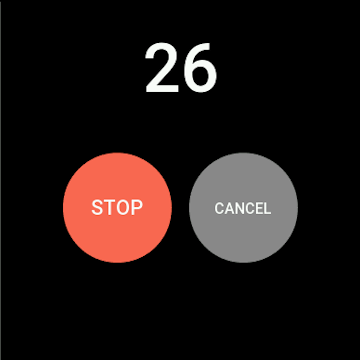
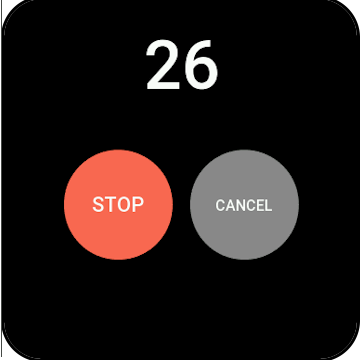
version 1.0.1 pre- user test

diff --git a/zepp_app/setting/index.js b/zepp_app/setting/index.js
@@ -1,5 +1,11 @@
 
-import { UPLOADURL, APIKEY, TODOIST_KEY } from '../secrets.js';
+import { UPLOADURL, APIKEY, TODOIST_CLIENT_ID, TODOIST_CLIENT_SECRET, DEFAULT_LANG } from '../secrets.js';
+
+const _UPLOADURL        = UPLOADURL        || '';
+const _APIKEY           = APIKEY           || '';
+const _CLIENT_ID        = TODOIST_CLIENT_ID     || '';
+const _CLIENT_SECRET    = TODOIST_CLIENT_SECRET || '';
+const _DEFAULT_LANG     = DEFAULT_LANG     || 'en';
 
 // Keep in sync with zepp_app/config.js
 const SIMULATOR_MODE = false;
@@ -13,7 +19,7 @@ const FAKE_FILES = [
 AppSettingsPage({
   build(props) {
     if (!props.settingsStorage.getItem("dudu_upload_url")) {
-      props.settingsStorage.setItem("dudu_upload_url", UPLOADURL);
+      props.settingsStorage.setItem("dudu_upload_url", _UPLOADURL);
     }
     const uploadUrl = props.settingsStorage.getItem("dudu_upload_url");
     let files = [];
@@ -34,6 +40,7 @@ AppSettingsPage({
           marginBottom: "16px",
           borderBottom: "1px solid #333333",
           paddingBottom: "16px",
+          backgroundColor: "#1a4a8a",
         },
       },
       [
@@ -57,7 +64,7 @@ AppSettingsPage({
 
     // --- API Key section ---
     if (!props.settingsStorage.getItem("dudu_api_key")) {
-      props.settingsStorage.setItem("dudu_api_key", APIKEY);
+      props.settingsStorage.setItem("dudu_api_key", _APIKEY);
     }
     const apiKey = props.settingsStorage.getItem("dudu_api_key");
 
@@ -67,6 +74,7 @@ AppSettingsPage({
           marginBottom: "16px",
           borderBottom: "1px solid #333333",
           paddingBottom: "16px",
+          backgroundColor: "#1a4a8a",
         },
       },
       [
@@ -88,34 +96,58 @@ AppSettingsPage({
       ]
     );
 
-    // --- Todoist API Key section ---
-    if (!props.settingsStorage.getItem("dudu_todoist_key")) {
-      props.settingsStorage.setItem("dudu_todoist_key", TODOIST_KEY);
-    }
-    const todoistKey = props.settingsStorage.getItem("dudu_todoist_key");
-
+    // --- Todoist OAuth section ---
     const todoistKeyConfig = Section(
       {
         style: {
           marginBottom: "16px",
           borderBottom: "1px solid #333333",
           paddingBottom: "16px",
+          backgroundColor: "#1a4a8a",
         },
       },
       [
+        View(
+          {
+            style: {
+              display: "flex",
+              flexDirection: "row",
+              alignItems: "center",
+              marginBottom: "8px",
+            },
+          },
+          [
+            Image({
[1 lines of base64/hex data omitted]
+              width: "24px",
+              height: "24px",
+              style: { marginRight: "8px" },
+            }),
+            Text(
+              {
+                bold: true,
+                style: { color: "#ffffff", fontSize: "13px" },
+              },
+              "Todoist Integration"
+            ),
+          ]
+        ),
         Text(
           {
-            bold: true,
             paragraph: true,
-            style: { color: "#ffffff", fontSize: "13px", marginBottom: "8px" },
+            style: { color: "#aaaaaa", fontSize: "12px", marginBottom: "8px" },
           },
-          "Todoist API Key"
+          "Authorise DuDu to create tasks from your recordings"
         ),
-        TextInput({
-          label: "",
-          value: todoistKey,
-          onChange: (val) => {
-            props.settingsStorage.setItem("dudu_todoist_key", val);
+        Auth({
+          label: "Connect Todoist",
+          authorizeUrl: "https://app.todoist.com/oauth/authorize",
+          requestTokenUrl: "https://api.todoist.com/oauth/access_token",
+          clientId: _CLIENT_ID,
+          clientSecret: _CLIENT_SECRET,
+          scope: "task:add",
+          onAccessToken({ access_token }) {
+            props.settingsStorage.setItem("dudu_todoist_key", access_token);
           },
         }),
       ]
@@ -123,7 +155,7 @@ AppSettingsPage({
 
     // --- Language section ---
     if (!props.settingsStorage.getItem("dudu_language")) {
-      props.settingsStorage.setItem("dudu_language", "en");
+      props.settingsStorage.setItem("dudu_language", _DEFAULT_LANG);
     }
     const currentLanguage = props.settingsStorage.getItem("dudu_language");
 
@@ -133,6 +165,7 @@ AppSettingsPage({
           marginBottom: "16px",
           borderBottom: "1px solid #333333",
           paddingBottom: "16px",
+          backgroundColor: "#1a4a8a",
         },
       },
       [
@@ -167,6 +200,7 @@ AppSettingsPage({
           marginBottom: "16px",
           borderBottom: "1px solid #333333",
           paddingBottom: "16px",
+          backgroundColor: "#1a4a8a",
         },
       },
       [
@@ -197,7 +231,7 @@ AppSettingsPage({
           style: {
             padding: "20px",
             textAlign: "center",
-            backgroundColor: "#0a1628",
+            backgroundColor: "#1a4a8a",
             minHeight: "100%",
           },
         },
@@ -302,7 +336,7 @@ AppSettingsPage({
       {
         style: {
           padding: "20px",
-          backgroundColor: "#0a1628",
+          backgroundColor: "#1a4a8a",
           minHeight: "100%",
         },
       },

diff --git a/zepp_app/secrets.template.js b/zepp_app/secrets.template.js
@@ -1,10 +1,8 @@
 // Copy this file to secrets.js and fill in your values.
 // secrets.js is gitignored and will NOT be committed.
 
-export const UPLOADURL   = "https://your-worker.workers.dev/upload";
-export const APIKEY      = "your-worker-api-key-here";
-export const TODOIST_KEY = "your-todoist-api-key-here";
-export const DEFAULT_LANG = "it";
-export const TODOIST_CLIENT_ID = "";
+export const UPLOADURL          = "https://your-worker.workers.dev/upload";
+export const APIKEY             = "your-worker-api-key-here";
+export const DEFAULT_LANG       = "en";
+export const TODOIST_CLIENT_ID  = "";
 export const TODOIST_CLIENT_SECRET = "";
-

diff --git a/zepp_app/page/gt/home/index.page.js b/zepp_app/page/gt/home/index.page.js
@@ -163,8 +163,8 @@ const rightBtnX = Math.floor(width / 2 + btnGap / 2);
 
 Page(BasePage({
   build() {
-    setPageBrightTime({ brightTime: 600000 });
-    pauseDropWristScreenOff({ duration: 600000 });
+    try { setPageBrightTime({ brightTime: 600000 }); } catch (e) {}
+    try { pauseDropWristScreenOff({ duration: 600000 }); } catch (e) {}
 
     pageRequest = this.request.bind(this);
     // Countdown text - top half of screen

diff --git a/zepp_app/page/gt/home/audiolist.page.js b/zepp_app/page/gt/home/audiolist.page.js
@@ -57,8 +57,8 @@ function playFile(filePath, playBtn) {
 
 Page(BasePage({
   build() {
-    setPageBrightTime({ brightTime: 600000 });
-    pauseDropWristScreenOff({ duration: 600000 });
+    try { setPageBrightTime({ brightTime: 600000 }); } catch (e) {}
+    try { pauseDropWristScreenOff({ duration: 600000 }); } catch (e) {}
 
     const files = listAudioFiles();
     const pageRequest = this.request.bind(this);

diff --git a/.claude/tasks/CURRENT.md b/.claude/tasks/CURRENT.md
@@ -1,37 +1,51 @@
-# Task: Replace Todoist API Key with OAuth Authentication
+# Task: Replace Todoist API Key with OAuth Authentication — COMPLETED
 
 ## Goal
-Replace the manual Todoist API key entry in the Zepp app settings with a proper OAuth flow using the Zepp `Auth` component. The Cloudflare worker and app-side code need no changes — only the settings UI changes.
+Replace the manual Todoist API key entry with a proper OAuth flow using the Zepp `Auth` component.
 
 ## Prerequisites
-- [ ] Register a Todoist app at https://app.todoist.com/app/settings/integrations/app-management
-- [ ] Obtain `clientId` and `clientSecret`
-- [ ] Add them to `zepp_app/secrets.js` (and `zepp_app/secrets.template.js`) as `TODOIST_CLIENT_ID` and `TODOIST_CLIENT_SECRET`
+- [x] Register a Todoist app at https://app.todoist.com/app/settings/integrations/app-management
+- [x] Obtain `clientId` and `clientSecret`
+- [x] Add to `zepp_app/secrets.js` and `zepp_app/secrets.template.js` as `TODOIST_CLIENT_ID` / `TODOIST_CLIENT_SECRET`
 
 ## Implementation Steps
+- [x] **`zepp_app/secrets.template.js`** — removed `TODOIST_KEY`, added `TODOIST_CLIENT_ID` / `TODOIST_CLIENT_SECRET`
+- [x] **`zepp_app/secrets.js`** — removed `TODOIST_KEY`, added real `TODOIST_CLIENT_ID` / `TODOIST_CLIENT_SECRET`
+- [x] **`zepp_app/setting/index.js`** — replaced `TextInput` with `Auth` component; OAuth token saved to `dudu_todoist_key`
+- [x] **Redirect URI** — registered `https://zepp-os.zepp.com/app-settings/redirect.html` in Todoist App Management Console
+- [x] **Todoist icon** — `Image` component with base64-encoded `todoist.png` added next to section label
 
-- [ ] **`zepp_app/secrets.template.js`** — Add `TODOIST_CLIENT_ID` and `TODOIST_CLIENT_SECRET` placeholders; remove `TODOIST_KEY`
-- [ ] **`zepp_app/secrets.js`** — Add actual `TODOIST_CLIENT_ID` and `TODOIST_CLIENT_SECRET` values; remove `TODOIST_KEY`
-- [ ] **`zepp_app/setting/index.js`** — Remove the `TODOIST_KEY` import and the `TextInput` block for the API key (lines ~91-122); replace with an `Auth` component that writes the returned `access_token` to `settingsStorage` under the existing key `dudu_todoist_key`
+## Notes
+- `cloudfare_worker/worker.js` and `app-side/index.js` required no changes — OAuth tokens are Bearer tokens identical to API keys
+- Zepp uses `https://zepp-os.zepp.com/app-settings/redirect.html` as the redirect URI (visible in the authorize URL query string)
+- Use `Image` not `Img` — correct Zepp settings component name
 
-## Auth Component Config
-```js
-Auth({
-  title: 'Todoist',
-  label: 'Connect Todoist',
-  description: 'Authorize to create tasks from recordings',
-  authorizeUrl: 'https://app.todoist.com/oauth/authorize',
-  requestTokenUrl: 'https://api.todoist.com/oauth/access_token',
-  clientId: TODOIST_CLIENT_ID,
-  clientSecret: TODOIST_CLIENT_SECRET,
-  scope: 'task:add',
-  onAccessToken({ access_token }) {
-    settingsStorage.setItem('dudu_todoist_key', access_token);
-  }
-})
-```
+---
 
-## No Changes Needed
-- `zepp_app/app-side/index.js` — already reads `dudu_todoist_key` and sends it as `todoistApiKey`
-- `cloudfare_worker/worker.js` — already uses it as a Bearer token
-- `scripts/test_debug_ogg.py` — manual key still works for testing
+# Task: App Store Rejection Fixes (v1.0.1) — COMPLETED
+
+### 1. Black screen on square device — FIXED
+- [x] Wrapped `setPageBrightTime` and `pauseDropWristScreenOff` in try/catch in `index.page.js` and `audiolist.page.js`
+
+### 2. Icon not displaying — FIXED
+- [x] gt.r and gt.s icons were 248×248; centre-cropped to 240×240 (bip6 was already correct)
+
+### 3. Settings white screen — FIXED
+- [x] Added `|| ''` fallback guards on all secret imports in `setting/index.js`
+- [x] Added `backgroundColor: "#1a4a8a"` to all `Section` components (were rendering white over the dark background)
+- [x] Corrected `DEFAULT_LANG` usage (was hardcoded `"en"`)
+
+### 4. Preview image corners — PENDING (manual)
+- [x] Re-export store preview images at 360×360px with rounded transparent corners and re-upload to store listing
+
+---
+
+# Task: review debug and utils
+
+- [ ] Update README.md withthe instruction on how to submit a file to the worker and manage TODOIST api key  in the command line
+- [ ] Update CLAUDE.md with the result of the analysys of what files are being included in the zab archive inside the .bin file and which are kept outside
+
+# Task: v1.0.1 Submission
+
+- [ ] Perform user testing on physical device (GTR / GTS / Bip6) - manual
+- [ ] Submit v1.0.1 to the Zepp app store

diff --git a/README.md b/README.md
@@ -28,7 +28,7 @@ zepp_app/
   secrets.js                  Local secrets (gitignored) — copy from secrets.template.js
   secrets.template.js         Template for secrets.js
   setting/index.js            Companion app settings page (URL, API key, language,
-                              Todoist key, recording duration)
+                              Todoist OAuth connect, recording duration)
   page/gt/home/
     index.page.js             Main recording page
     audiolist.page.js         Recordings list (play, sync, delete)
@@ -84,6 +84,23 @@ cp zepp_app/secrets.template.js zepp_app/secrets.js
 
 `secrets.js` is gitignored and will never be committed.
 
+The required fields are:
+
+| Field | Description |
+|---|---|
+| `UPLOADURL` | Your Cloudflare Worker URL (set in step 4) |
+| `APIKEY` | The API key you set on the worker (or leave blank) |
+| `DEFAULT_LANG` | Default transcription language, e.g. `"en"` or `"it"` |
+| `TODOIST_CLIENT_ID` | OAuth client ID from your Todoist app registration |
+| `TODOIST_CLIENT_SECRET` | OAuth client secret from your Todoist app registration |
+
+**Todoist OAuth setup:**
+
+1. Go to [Todoist App Management](https://app.todoist.com/app/settings/integrations/app-management) and create a new app.
+2. Set the redirect URI to exactly: `https://zepp-os.zepp.com/app-settings/redirect.html`
+3. Copy the **Client ID** and **Client Secret** into `secrets.js`.
+4. After building and installing the app, tap **Connect Todoist** in the watch app settings — it will open a browser OAuth flow and store the token automatically.
+
 ### 3. Install watch app dependencies
 
 ```bash
@@ -126,7 +143,7 @@ Open the **Zepp phone app → My Devices → your watch → DuDu → Settings**:
 |---|---|
 | Upload URL | `https://dudu-transcription.<your-subdomain>.workers.dev/upload` |
 | API Key | the key you set in step 4 (or leave blank to skip auth) |
-| Todoist Key | *(optional)* your Todoist API token — creates a task from each transcription |
+| Todoist | *(optional)* tap **Connect Todoist** — completes an OAuth flow and stores the token; once connected, a Todoist task is created from each transcription |
 | Language | transcription language hint sent to Whisper (default: English) |
 | Duration | recording length in seconds, 5–60 (default 30) |
 
@@ -154,7 +171,7 @@ Transcribes audio and optionally creates a Todoist task.
 | `fileName` | string | no | Original file name, echoed in response |
 | `apiKey` | string | no | API key (alternative to `Authorization` header) |
 | `language` | string | no | BCP-47 language code for Whisper, e.g. `"en"`, `"it"`. Defaults to `"en"` |
-| `todoistApiKey` | string | no | Todoist API token — if provided, a task is created from the transcription |
+| `todoistApiKey` | string | no | Todoist OAuth access token — if provided, a task is created from the transcription. The app obtains this automatically via OAuth; you can also pass a personal API token here for testing. |
 
 **Authorization header (alternative to `apiKey` in body):**
 ```
@@ -204,10 +221,10 @@ python scripts/test_debug_ogg.py <path-to-opus> \
   --url https://dudu-transcription.<your-subdomain>.workers.dev \
   --api-key <API_KEY> --upload --lang it
 
-# Transcribe and create a Todoist task
+# Transcribe and create a Todoist task (pass an OAuth token or personal API token)
 python scripts/test_debug_ogg.py <path-to-opus> \
   --url https://dudu-transcription.<your-subdomain>.workers.dev \
-  --api-key <API_KEY> --upload --lang it --todoist-key <TODOIST_KEY>
+  --api-key <API_KEY> --upload --lang it --todoist-key <TODOIST_OAUTH_TOKEN>
 ```
 
 ### Local worker dev server
@@ -251,7 +268,7 @@ cd zepp_app && zeus build
 
 - `secrets.js` is gitignored — never commit it
 - Set `API_KEY` via `wrangler secret put` to protect your worker endpoint
-- Your Todoist API key is transmitted at runtime over HTTPS and never stored server-side
+- Todoist integration uses OAuth — no API key is ever typed or stored in plain text; the OAuth access token is saved in the Zepp companion app's secure settings storage and transmitted to the worker over HTTPS
 - The worker never saves audio to disk — all processing is in-memory
 
 ---
